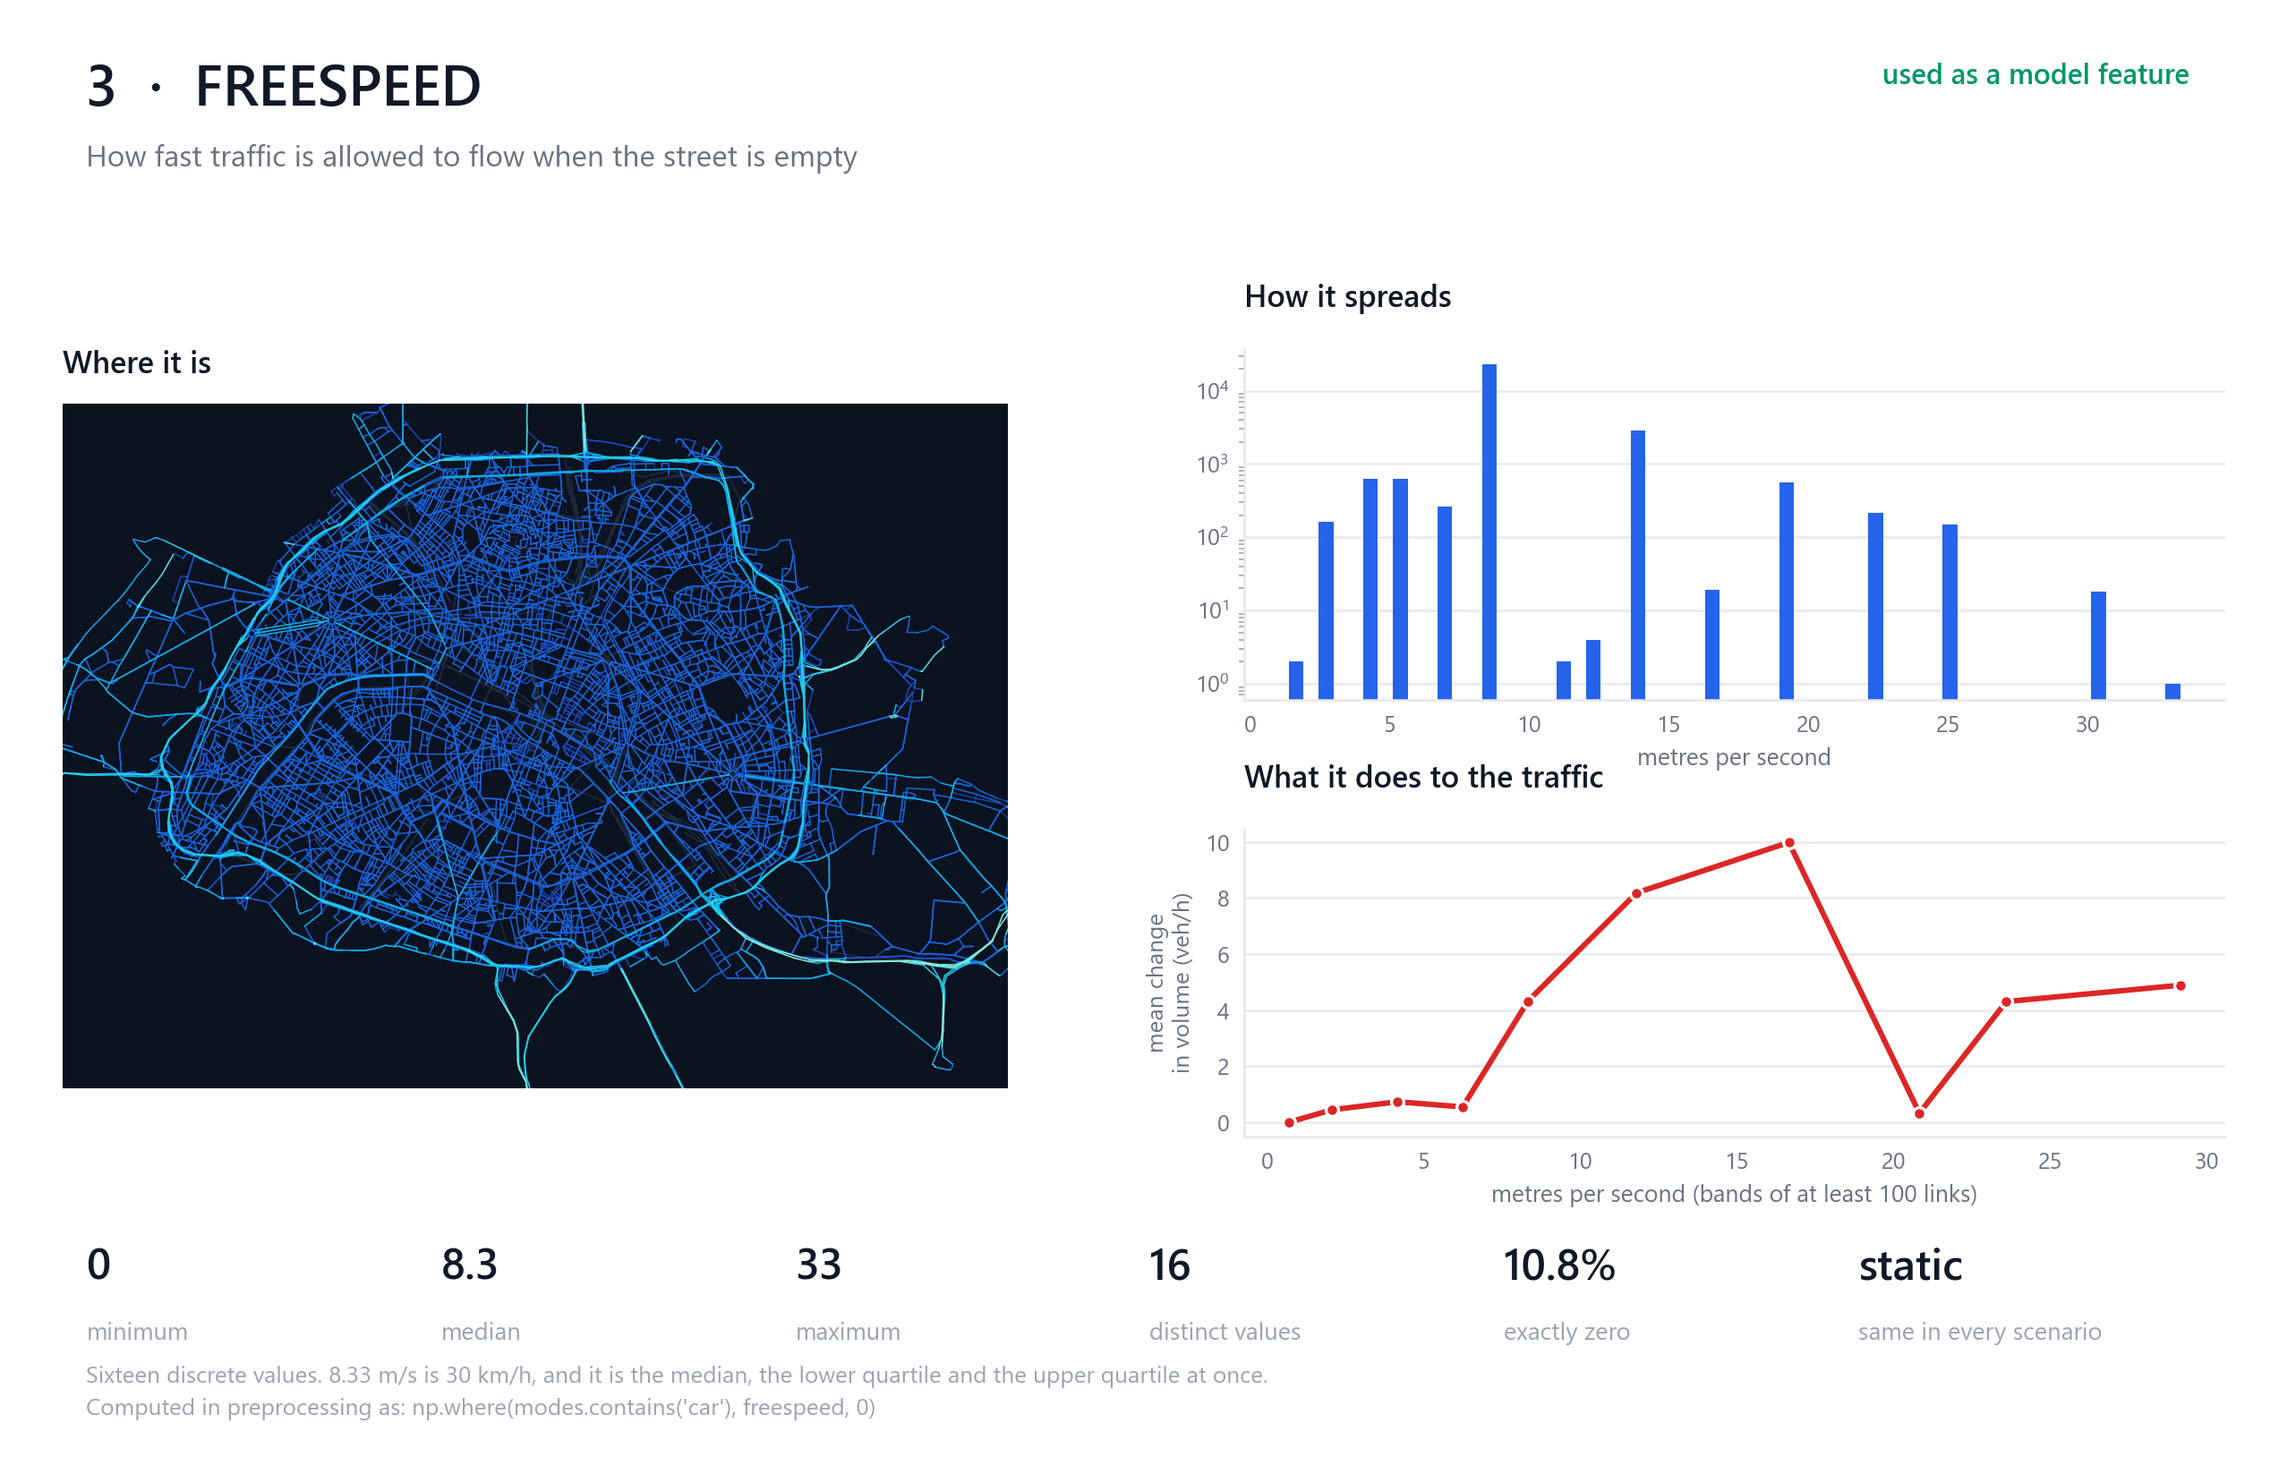
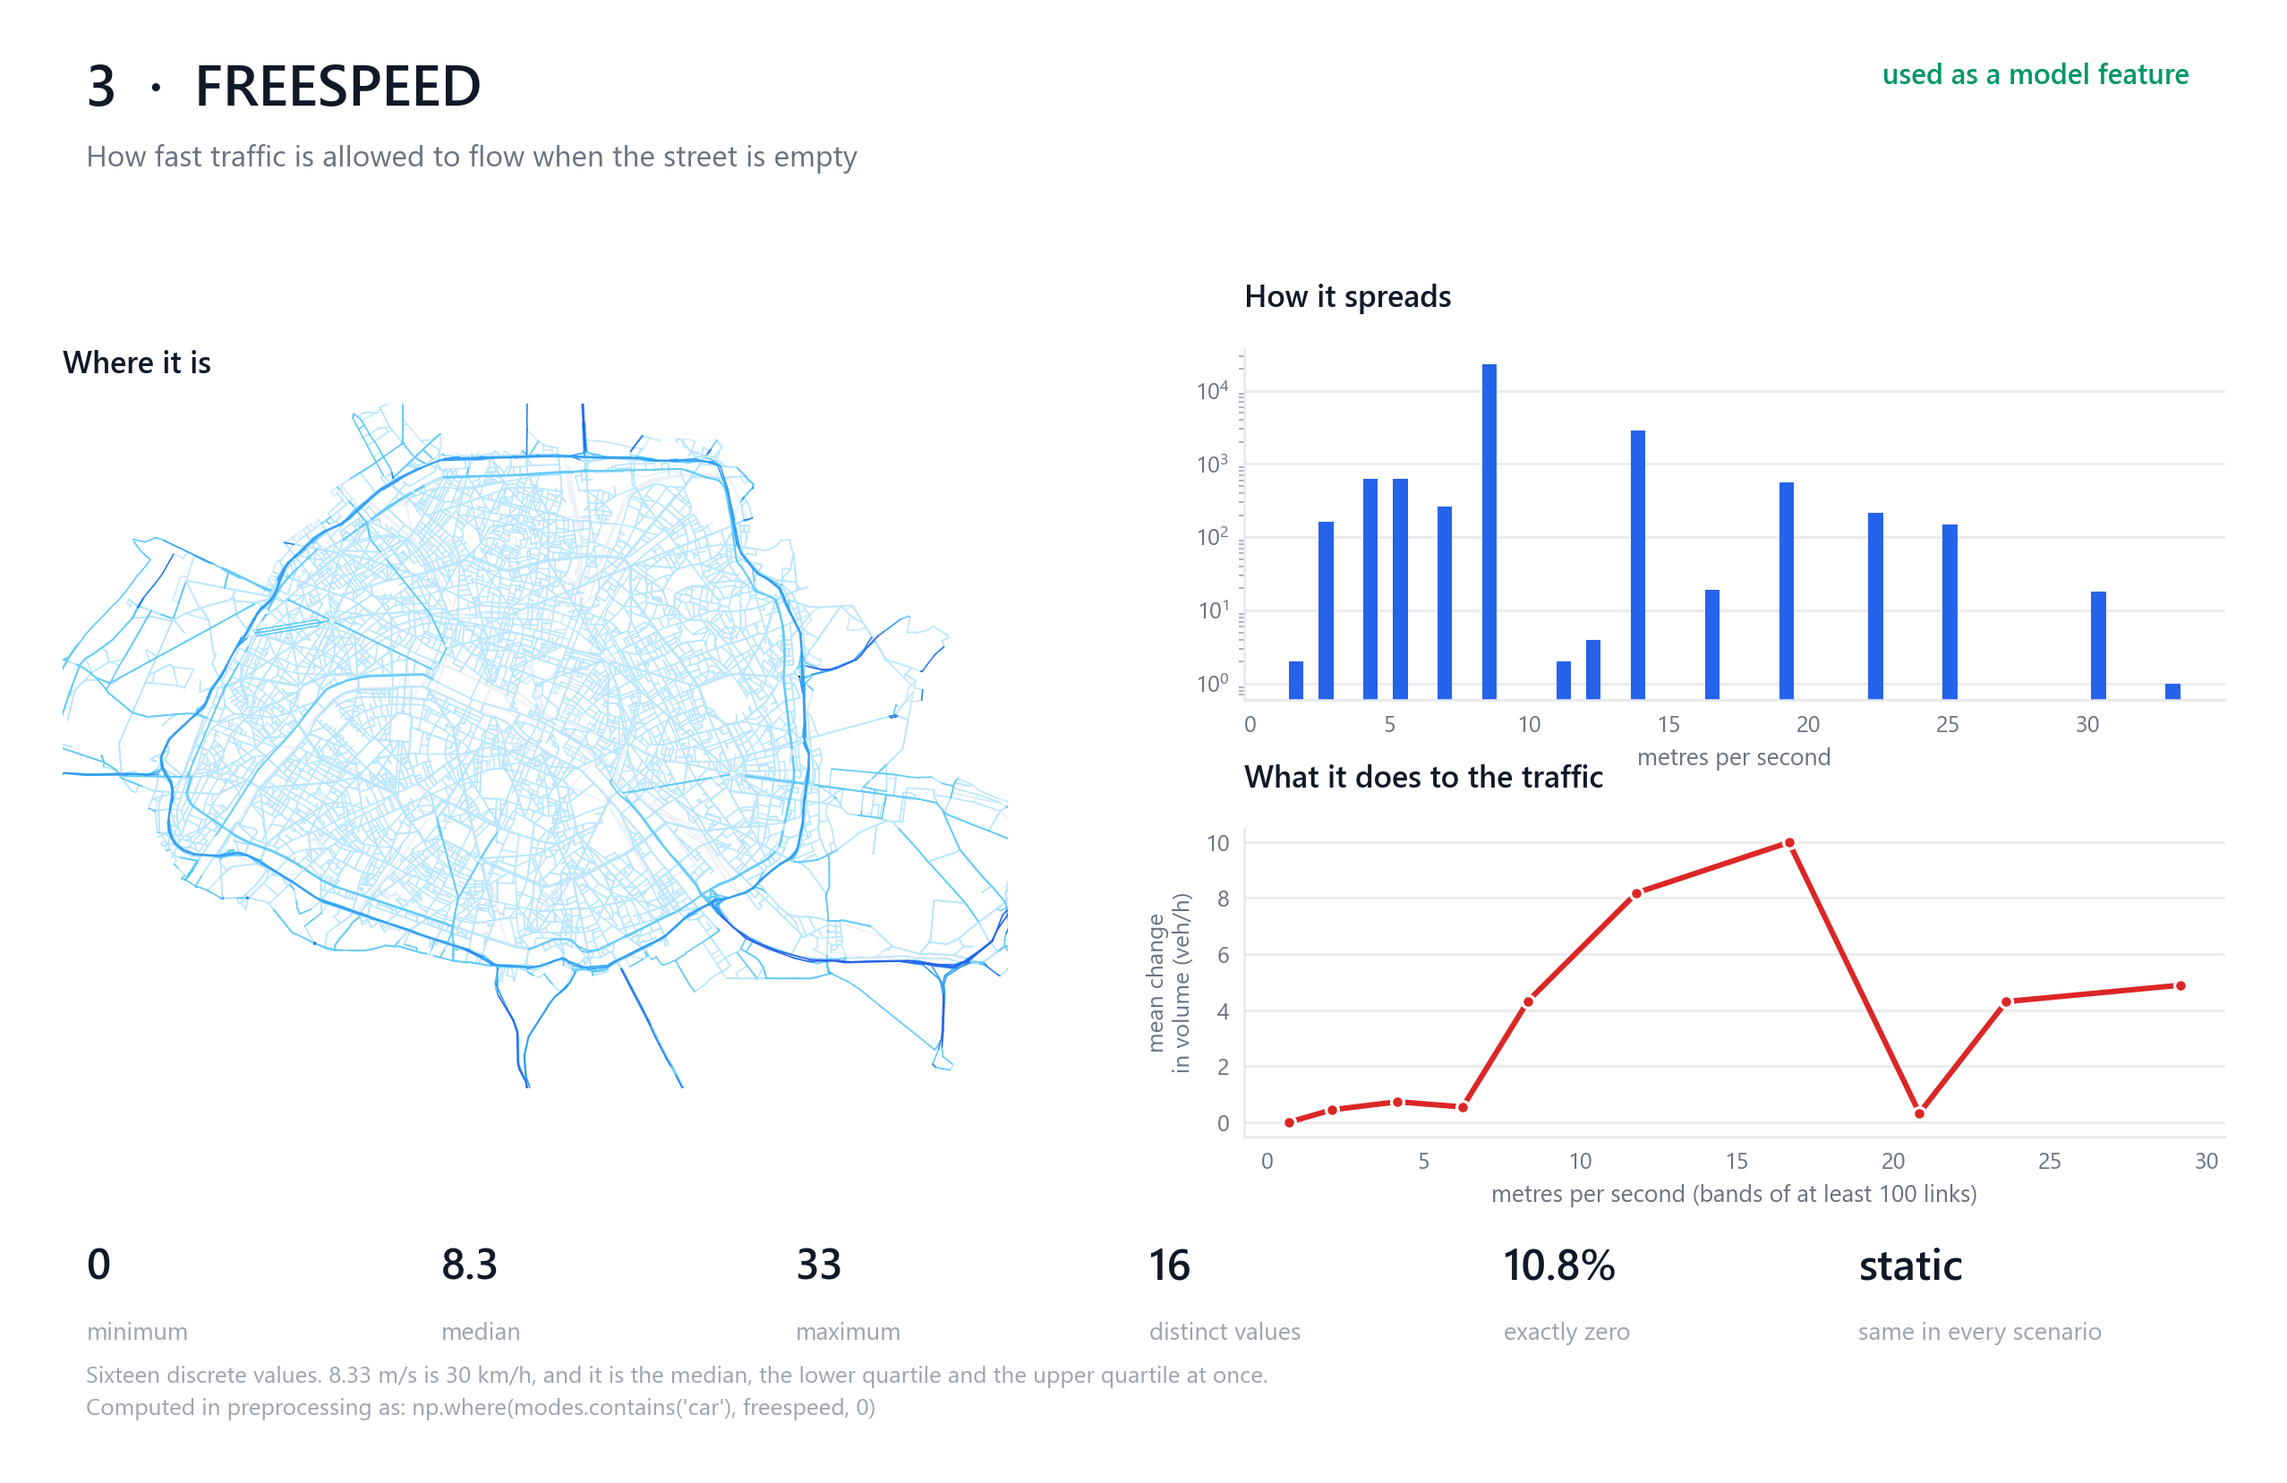
style: draw every figure on a light ground
The network maps were on a near-black ground. They looked good and that is not
the point: these are read on a README and a light page, so the whole set is now
on paper.

Two light ramps do the work. FLOW_LIGHT and HEAT_LIGHT begin near the background
and darken as the value rises, so the quiet majority of links recede rather than
glowing against black. Switching them exposed two things that had to move with
the colour: the hero's key was still drawing the old dark ramp, and its caption
said "the dark band through the middle is the Seine" — which reads as the
opposite of the truth once dark means busy. The caption now says darker means
busier, and calls the Seine what it is on this map, an empty band with no roads.

The intervention panel needed one more step. Most eligible links are touched only
a few times out of 1,000 scenarios, and the bottom of a light ramp is almost the
paper colour, so those links disappeared. ps.truncate lifts the ramp off its floor
for that panel, and the same lifted ramp is handed to the colour key so the key
and the map remain the same ramp.

District badges are dark chips with light numerals now, which is the inverse of
what the dark maps needed and the same reasoning: the badge has to contrast with
the map under it.

Changed region(s): [[0.0, 0.2462, 0.4638, 0.7387]]

diff --git a/scripts/figure_generation/generate_portfolio_figures.py b/scripts/figure_generation/generate_portfolio_figures.py
@@ -34,7 +34,9 @@ from common import HIGHWAY_CLASSES, MODEL_COLS, add_common_args, load  # noqa: E
 from matplotlib.patches import Rectangle  # noqa: E402
 
 OUT = REPO / "docs" / "figures" / "portfolio"
-NIGHT = "#0B1220"
+#: Kept as a named colour for the district badges, which still need a dark
+#: chip to sit on a light map. No figure uses it as a background.
+INK_CHIP = "#16233A"
 
 
 def save(fig, name, face=ps.PAPER):
@@ -49,29 +51,27 @@ def fig_hero(pos, X, polys):
     """The network itself, coloured by how much traffic it already carries."""
     vol = X[:, 0]
     fig = plt.figure(figsize=(13.2, 10.4))
-    fig.patch.set_facecolor(NIGHT)
     ax = fig.add_axes([0.03, 0.075, 0.94, 0.755])
-    ps.network(ax, pos, values=np.log10(vol + 1), cmap=ps.FLOW, lw=0.6,
-               background=NIGHT)
-    ps.districts(ax, polys, colour="#93A4B8", lw=1.0, alpha=0.62, label=True,
-                 label_size=7.6, label_colour="#E8EEF6", label_bg="#16233A")
+    ps.network(ax, pos, values=np.log10(vol + 1), cmap=ps.FLOW_LIGHT, lw=0.6)
+    ps.districts(ax, polys, colour=ps.MUTED, lw=0.9, alpha=0.70, label=True,
+                 label_size=7.6, label_colour=ps.PAPER, label_bg=INK_CHIP)
 
     fig.text(0.055, 0.972, "31,635 streets, one city", ha="left", va="top",
-             fontsize=27, color="#F8FAFC", fontweight="600")
+             fontsize=27, color=ps.INK, fontweight="600")
     fig.text(0.055, 0.930,
              "Every line is one road link in the MATSim model of Paris, drawn from its own "
              "stored start and end coordinates\nand shaded by the car volume it carries "
              "before any policy is applied.",
-             ha="left", va="top", fontsize=12.6, color="#94A3B8", linespacing=1.6)
+             ha="left", va="top", fontsize=12.6, color=ps.MUTED, linespacing=1.6)
 
-    ps.gradient_key(fig, [0.055, 0.862, 0.20, 0.011], ps.FLOW,
+    ps.gradient_key(fig, [0.055, 0.862, 0.20, 0.011], ps.FLOW_LIGHT,
                     "quiet", "1,596 veh/h")
     fig.text(0.055, 0.052,
              "The ring is the Périphérique; the dark band through the middle is the Seine. "
              "23.9% of links carry no car traffic at all.\n"
              "Source: train-data-v1 release, 1,000 scenarios × 31,635 links.",
-             ha="left", va="top", fontsize=9.8, color="#64748B", linespacing=1.7)
-    save(fig, "01_the_network", face=NIGHT)
+             ha="left", va="top", fontsize=9.8, color=ps.FAINT, linespacing=1.7)
+    save(fig, "01_the_network")
 
 
 def fig_features(X, red, absy):
@@ -192,20 +192,23 @@ def fig_policy_vs_response(pos, red, y, absy, polys):
     """Where the policy lands, and where the traffic actually moves."""
     times = (red != 0).sum(0)
     fig = plt.figure(figsize=(13.6, 7.9))
-    fig.patch.set_facecolor(NIGHT)
     axL = fig.add_axes([0.025, 0.115, 0.465, 0.685])
     axR = fig.add_axes([0.508, 0.115, 0.465, 0.685])
 
-    ps.network(axL, pos, color="#1E293B", lw=0.35, background=NIGHT)
+    ps.network(axL, pos, color="#E4E9F0", lw=0.35)
     m = times > 0
-    ps.network(axL, pos[m], values=times[m], cmap=ps.HEAT, lw=0.75, background=NIGHT)
-    ps.districts(axL, polys, colour="#8595AA", lw=0.8, alpha=0.60)
+    # Only 11,305 of 31,635 links are ever intervened, and many just once. On a
+    # light ground the bottom of the ramp is nearly the paper colour, so the ramp
+    # is lifted for this panel and the key below uses the same lifted ramp.
+    hot = ps.truncate(ps.HEAT_LIGHT, 0.30, 1.0)
+    ps.network(axL, pos[m], values=times[m], cmap=hot, lw=0.85)
+    ps.districts(axL, polys, colour=ps.MUTED, lw=0.8, alpha=0.68)
     ps.focus_on(axL, pos)
 
-    ps.network(axR, pos, values=np.log10(absy + 0.05), cmap=ps.HEAT, lw=0.6,
-               background=NIGHT)
-    ps.districts(axR, polys, colour="#8595AA", lw=0.8, alpha=0.60, label=True,
-                 label_size=6.9, label_colour="#E8EEF6", label_bg="#16233A")
+    ps.network(axR, pos, values=np.log10(absy + 0.05), cmap=ps.HEAT_LIGHT,
+               lw=0.6)
+    ps.districts(axR, polys, colour=ps.MUTED, lw=0.8, alpha=0.68, label=True,
+                 label_size=6.9, label_colour=ps.PAPER, label_bg=INK_CHIP)
 
     for ax, head, sub in (
         (axL, "Where the policy is applied",
@@ -213,27 +216,29 @@ def fig_policy_vs_response(pos, red, y, absy, polys):
         (axR, "Where the traffic actually moves",
          "every link responds, including the 20,330 no policy ever touches")):
         ax.text(0, 1.075, head, transform=ax.transAxes, fontsize=15.5,
-                color="#F8FAFC", fontweight="600", va="bottom")
+                color=ps.INK, fontweight="600", va="bottom")
         ax.text(0, 1.028, sub, transform=ax.transAxes, fontsize=10.6,
                 color="#94A3B8", va="bottom")
 
-    ps.gradient_key(fig, [0.025, 0.072, 0.16, 0.010], ps.HEAT, "once", "660 scenarios")
-    ps.gradient_key(fig, [0.508, 0.072, 0.16, 0.010], ps.HEAT, "still", "large change")
+    ps.gradient_key(fig, [0.025, 0.072, 0.16, 0.010], hot, "once",
+                    "660 scenarios")
+    ps.gradient_key(fig, [0.508, 0.072, 0.16, 0.010], ps.HEAT_LIGHT, "still",
+                    "large change")
 
     fig.text(0.055, 0.955, "The effect is not where the policy is",
-             ha="left", va="top", fontsize=25, color="#F8FAFC", fontweight="600")
+             ha="left", va="top", fontsize=25, color=ps.INK, fontweight="600")
     fig.text(0.055, 0.912,
              "Capacity is only ever removed from three road classes. The response spreads "
              "across the whole network — which is why a\nsurrogate has to model the graph "
              "rather than each street on its own.",
-             ha="left", va="top", fontsize=12.4, color="#94A3B8", linespacing=1.6)
+             ha="left", va="top", fontsize=12.4, color=ps.MUTED, linespacing=1.6)
     fig.text(0.025, 0.040,
              "Left: how often each link had capacity removed across the 1,000 scenarios. "
              "Right: mean absolute change in link volume, log-shaded.\n"
              "Trunk roads are never intervened and still carry the second-highest mean "
              "response of any road class.",
-             ha="left", va="top", fontsize=9.8, color="#64748B", linespacing=1.7)
-    save(fig, "04_policy_vs_response", face=NIGHT)
+             ha="left", va="top", fontsize=9.8, color=ps.FAINT, linespacing=1.7)
+    save(fig, "04_policy_vs_response")
 
 
 def fig_road_classes(X, red, absy):

diff --git a/scripts/figure_generation/generate_feature_cards.py b/scripts/figure_generation/generate_feature_cards.py
@@ -43,14 +43,14 @@ STATS = REPO / "docs" / "portfolio_data_story" / "assets" / "feature_statistics.
 COPY = {
     "VOL_BASE_CASE": dict(
         plain="How much car traffic the street already carries, before any policy",
-        unit="vehicles per hour", cmap=ps.FLOW,
+        unit="vehicles per hour", cmap=ps.FLOW_LIGHT,
         source="links_base_case['vol_car'] in process_simulations_for_gnn.py",
         insight="The strongest single predictor of where traffic moves. Response rises "
                 "to a peak near 500 veh/h and then falls: the busiest roads absorb "
                 "a diversion without changing much."),
     "CAPACITY_BASE_CASE": dict(
         plain="How much traffic the street could carry if it filled up",
-        unit="vehicles per hour", cmap=ps.FLOW,
+        unit="vehicles per hour", cmap=ps.FLOW_LIGHT,
         source="np.where(modes.contains('car'), capacity, 0)",
         insight="Only 36 distinct values, and half the network sits at exactly "
                 "480 veh/h. Its response curve peaks near 2,500 veh/h and falls "
@@ -63,7 +63,7 @@ COPY = {
                 "ever removed, never added, and only on three road classes."),
     "FREESPEED": dict(
         plain="How fast traffic is allowed to flow when the street is empty",
-        unit="metres per second", cmap=ps.FLOW,
+        unit="metres per second", cmap=ps.FLOW_LIGHT,
         source="np.where(modes.contains('car'), freespeed, 0)",
         insight="Sixteen discrete values. 8.33 m/s is 30 km/h, and it is the median, "
                 "the lower quartile and the upper quartile at once."),
@@ -75,7 +75,7 @@ COPY = {
                 "amounts, so arithmetic on them would be meaningless."),
     "LENGTH": dict(
         plain="How long the street is",
-        unit="metres", cmap=ps.FLOW,
+        unit="metres", cmap=ps.FLOW_LIGHT,
         source="edge feature dictionary in process_simulations_for_gnn.py",
         insight="The only feature with essentially no rank relationship to the "
                 "response on its own (Spearman -0.08)."),
@@ -152,7 +152,7 @@ def card(name, col, X, red, absy, pos, stats):
             ps.focus_on(axM, pos)
         else:
             ps.network(axM, pos, values=np.log10(shown + 1) if name != "FREESPEED"
-                       else shown, cmap=meta["cmap"], lw=0.55, background="#0B1220")
+                       else shown, cmap=meta["cmap"], lw=0.6)
     axM.text(0, 1.035, "Where it is", transform=axM.transAxes, fontsize=12.4,
              color=ps.INK, fontweight="600", va="bottom")
 
@@ -253,8 +253,7 @@ def card_pos(pos, X, absy):
     axA = fig.add_axes([0.545, 0.520, 0.415, 0.245])
     axB = fig.add_axes([0.545, 0.215, 0.415, 0.215])
 
-    ps.network(axM, pos, values=np.log10(X[:, 0] + 1), cmap=ps.FLOW, lw=0.55,
-               background="#0B1220")
+    ps.network(axM, pos, values=np.log10(X[:, 0] + 1), cmap=ps.FLOW_LIGHT, lw=0.6)
     axM.text(0, 1.035, "Where it is", transform=axM.transAxes, fontsize=12.4,
              color=ps.INK, fontweight="600", va="bottom")
     ps.note(axM, 0.5, -0.055, "every line is drawn start -> end from this tensor",

diff --git a/scripts/figure_generation/portfolio_style.py b/scripts/figure_generation/portfolio_style.py
@@ -54,13 +54,29 @@ HEAT = LinearSegmentedColormap.from_list(
 DIVERGE = LinearSegmentedColormap.from_list(
     "diverge", ["#1D4ED8", "#60A5FA", "#E5E7EB", "#F87171", "#B91C1C"])
 
-#: The same idea as HEAT, for maps drawn on white. FLOW and HEAT begin near black
-#: so quiet links sink into a dark ground; on paper that reads as scribble, so
-#: this one begins near the paper instead and darkens as the value rises.
+#: Every figure is drawn on paper. These two ramps begin near the background so
+#: quiet links recede into it, and darken as the value rises. FLOW and HEAT above
+#: are the dark-ground equivalents and are kept only for reference; nothing in the
+#: published set uses them.
 HEAT_LIGHT = LinearSegmentedColormap.from_list(
     "heat_light", ["#EEF2F7", "#C7D2FE", "#F59E0B", "#DC2626", "#7F1D1D"])
+FLOW_LIGHT = LinearSegmentedColormap.from_list(
+    "flow_light", ["#EDF2F7", "#BAE6FD", "#38BDF8", "#2563EB", "#1E1B4B"])
 
 FAMILY = ["Segoe UI", "Corbel", "DejaVu Sans"]
+
+
+def truncate(cmap, lo=0.0, hi=1.0, n=256):
+    """A colour ramp restricted to part of its range.
+
+    A light-ground ramp starts at almost the background colour, which is right when
+    most of the data is low and should recede. It is wrong when every drawn value
+    matters -- a link intervened once still needs to be visible. Truncating lifts
+    the floor without inventing a different palette. Pass the returned ramp to
+    `gradient_key` as well, so the key and the map stay the same ramp.
+    """
+    return LinearSegmentedColormap.from_list(
+        f"{cmap.name}_{lo:.2f}_{hi:.2f}", cmap(np.linspace(lo, hi, n)))
 
 
 def apply():

diff --git a/docs/figures/portfolio/README.md b/docs/figures/portfolio/README.md
@@ -100,9 +100,14 @@ and `feature_statistics.json`, so the table cannot drift from the data.
 
 - **Colour carries meaning, not decoration.** Amber marks what the policy can touch,
   blue what it never does, red the response.
-- **Two map palettes.** `FLOW` and `HEAT` begin near black for dark-ground maps;
-  `HEAT_LIGHT` begins near the paper, because a dark-ground ramp on white reads as
-  scribble.
+- **Every figure is on paper.** The maps were first drawn on a near-black ground,
+  which looked striking and is not what these are for. `FLOW_LIGHT` and
+  `HEAT_LIGHT` begin near the background and darken as the value rises, so quiet
+  links recede instead of glowing.
+- **The key is always the ramp the map used.** Where a ramp is lifted off its
+  floor so that rare values stay visible — the intervention map, where many links
+  are touched only once — the same lifted ramp is passed to the colour key, so the
+  two cannot drift apart.
 - **Framing.** Maps are framed on a percentile of the endpoints. A handful of links run
   far south of Paris, and framing on the raw extent shrinks the city to a smudge.
 - **Districts come from the data.** Arrondissement boundaries are read from
